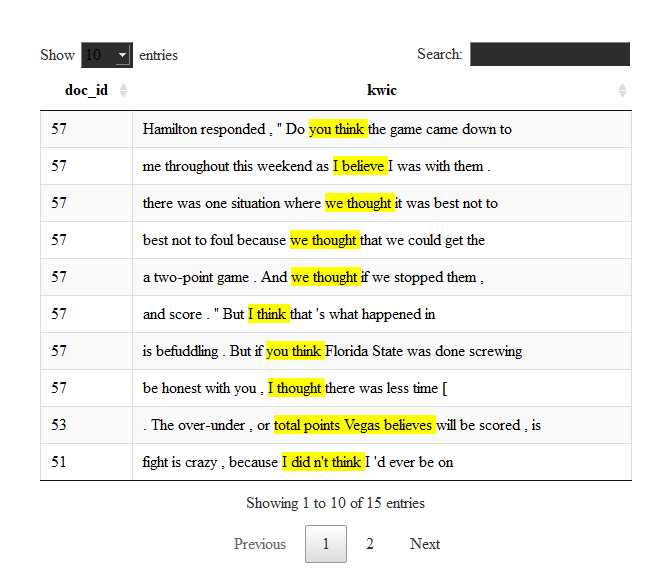
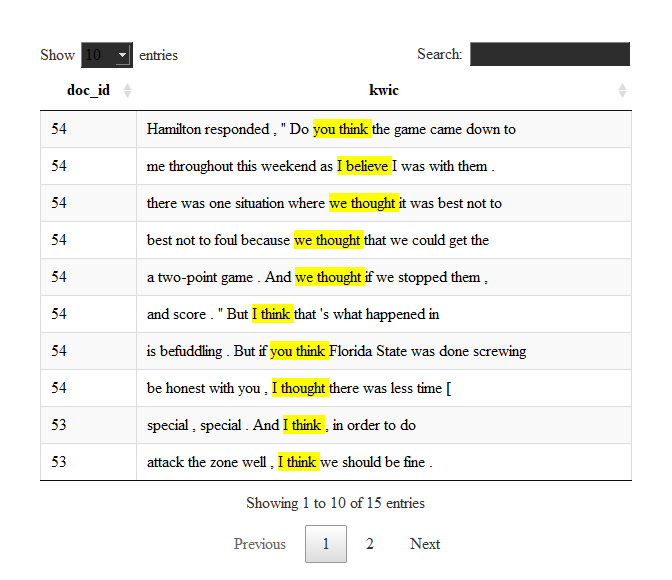
re

diff --git a/README.md b/README.md
@@ -94,7 +94,7 @@ summary <- corpuslingr::clr_desc_corpus(lingr_corpus,doc="doc_id",
 ``` r
 summary$corpus
 ##    n_docs textLength textType textSent
-## 1:     57      51114     8688     2288
+## 1:     54      41569     6423     2019
 ```
 
 -   By genre:
@@ -102,9 +102,9 @@ summary$corpus
 ``` r
 summary$genre
 ##          search n_docs textLength textType textSent
-## 1: topic_nation     18      12329     3001      554
-## 2:  topic_world     20      23120     5888     1002
-## 3: topic_sports     19      15665     2649      781
+## 1: topic_nation     17      13435     3098      744
+## 2:  topic_world     19      12324     3106      568
+## 3: topic_sports     18      15810     2607      766
 ```
 
 -   By text:
@@ -112,12 +112,12 @@ summary$genre
 ``` r
 head(summary$text)
 ##    doc_id textLength textType textSent
-## 1:      1        972      414       34
+## 1:      1        308      185       16
 ## 2:      2        346      184       18
-## 3:      3        623      270       29
+## 3:      3        255      143       14
 ## 4:      4        598      295       34
-## 5:      5        264      165       15
-## 6:      6       1260      460       58
+## 5:      5        914      367       40
+## 6:      6       3548     1039      290
 ```
 
 ------------------------------------------------------------------------
@@ -308,18 +308,18 @@ lingr_corpus %>%
   corpuslingr::clr_search_gramx(search=search1)%>%
   slice(1:10)
 ## # A tibble: 10 x 4
-##    doc_id token            tag    lemma        
-##    <chr>  <chr>            <chr>  <chr>        
-##  1 1      talking about    VBG IN talk about   
-##  2 1      said in          VBD IN say in       
-##  3 1      put out          VBN RP put out      
-##  4 1      rallying for     VBG IN rallying for 
-##  5 1      been at          VBN IN be at        
-##  6 1      assigned to      VBN IN assign to    
-##  7 1      contrasted with  VBN IN contrast with
-##  8 1      went on          VBD IN go on        
-##  9 1      marching against VBG IN march against
-## 10 1      speaks during    VBZ IN speak during
+##    doc_id token           tag       lemma       
+##    <chr>  <chr>           <chr>     <chr>       
+##  1 1      found in        VBN IN    find in     
+##  2 1      be on           VB IN     be on       
+##  3 1      developing in   VBG IN    develop in  
+##  4 1      change to       VB IN     change to   
+##  5 1      see up          VB RP     see up      
+##  6 1      arrive by       VB IN     arrive by   
+##  7 1      reporting about VBG IN    report about
+##  8 1      Check out       VB RP     check out   
+##  9 1      connect with    VB IN     connect with
+## 10 1      follow him on   VB PRP IN follow he on
 ```
 
 ------------------------------------------------------------------------
@@ -343,12 +343,12 @@ lingr_corpus %>%
   corpuslingr::clr_get_freq(agg_var = 'token', toupper=TRUE)%>%
   head()
 ##                     token txtf docf
-## 1:  PRESIDENTIAL ELECTION    5    3
-## 2: PRESIDENTIAL ELECTIONS    3    1
-## 3: PRESIDENTIAL PERSONNEL    2    1
-## 4:      INITIAL AGGRESSOR    1    1
-## 5:   INITIAL APPOINTMENTS    1    1
-## 6:       INITIAL KOSINSKI    1    1
+## 1: PRESIDENTIAL PERSONNEL    2    1
+## 2:   INITIAL APPOINTMENTS    1    1
+## 3:        INITIAL REPORTS    1    1
+## 4:       INITIAL RESPONSE    1    1
+## 5:         MARTIAL ARTIST    1    1
+## 6:       POTENTIAL MOTIVE    1    1
 ```
 
 ------------------------------------------------------------------------
@@ -393,11 +393,11 @@ corpuslingr::clr_search_context(search=search3,corp=lingr_corpus,LW=10, RW = 10)
   head()
 ##    searchLemma     lemma cofreq
 ## 1: WHITE HOUSE DESTEFANO      7
-## 2: WHITE HOUSE     TRUMP      5
-## 3: WHITE HOUSE    JOHNNY      4
-## 4: WHITE HOUSE PRESIDENT      4
-## 5: WHITE HOUSE       SAY      4
-## 6: WHITE HOUSE   ADVISER      3
+## 2: WHITE HOUSE PRESIDENT      7
+## 3: WHITE HOUSE     TRUMP      7
+## 4: WHITE HOUSE       SAY      5
+## 5: WHITE HOUSE   ADVISER      4
+## 6: WHITE HOUSE    JOHNNY      4
 ```
 
 ------------------------------------------------------------------------
@@ -436,34 +436,10 @@ keyphrases
 <tbody>
 <tr>
 <td style="text-align:left;">
-57
-</td>
-<td style="text-align:left;">
-seconds | Hamilton | Florida State | Michigan | game
-</td>
-</tr>
-<tr>
-<td style="text-align:left;">
-56
-</td>
-<td style="text-align:left;">
-ball | Smith | demerit point | match | Steve Smith
-</td>
-</tr>
-<tr>
-<td style="text-align:left;">
-55
-</td>
-<td style="text-align:left;">
-Drive | Upshaw | condition | court | floor Saturday night
-</td>
-</tr>
-<tr>
-<td style="text-align:left;">
 54
 </td>
 <td style="text-align:left;">
-Truck Series race | track | Monday | Virginia area | Rain
+seconds | Hamilton | Florida State | game | Michigan
 </td>
 </tr>
 <tr>
@@ -471,7 +447,7 @@ Truck Series race | track | Monday | Virginia area | Rain
 53
 </td>
 <td style="text-align:left;">
-Duke | model | Kansas | ppg | Syracuse
+Kansas | Jayhawks | no. | Duke | final four
 </td>
 </tr>
 <tr>
@@ -479,7 +455,31 @@ Duke | model | Kansas | ppg | Syracuse
 52
 </td>
 <td style="text-align:left;">
-Giants fan | A | parking | a | Coliseum
+Upshaw | Drive | condition | court | game
+</td>
+</tr>
+<tr>
+<td style="text-align:left;">
+51
+</td>
+<td style="text-align:left;">
+track | Truck Series race | Monday | a.m | Virginia area
+</td>
+</tr>
+<tr>
+<td style="text-align:left;">
+50
+</td>
+<td style="text-align:left;">
+Bell | Steeler | draft | Colbert | Steelers
+</td>
+</tr>
+<tr>
+<td style="text-align:left;">
+49
+</td>
+<td style="text-align:left;">
+Phillies | Rupp | Phils | Pirates | catcher
 </td>
 </tr>
 </tbody>
